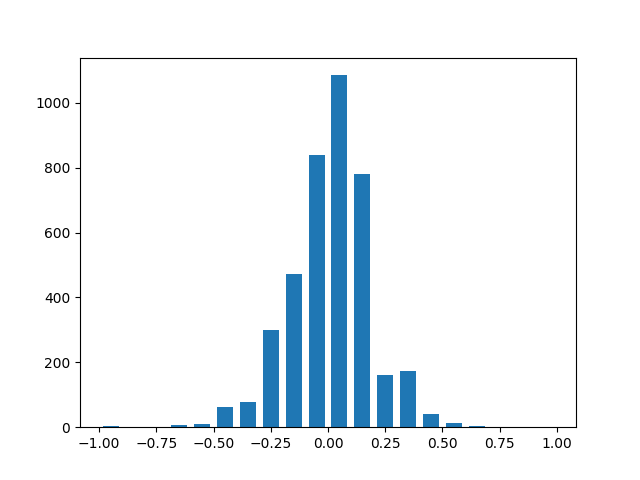
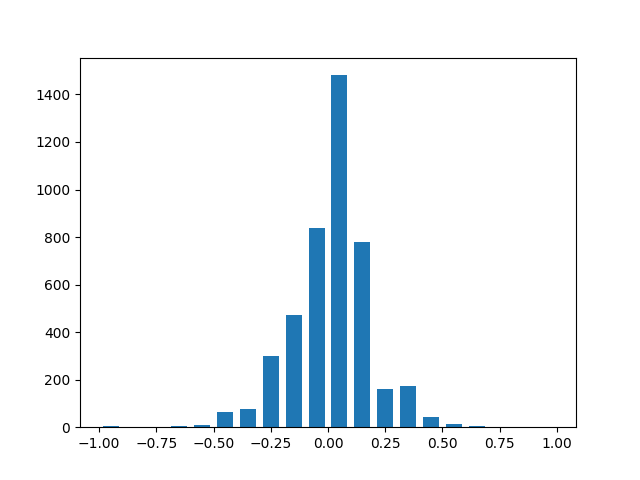
feat(writeup): add more details

diff --git a/model.py b/model.py
@@ -12,13 +12,18 @@ from keras.optimizers import Adam
 
 matplotlib.use('Agg')
 import matplotlib.pyplot as plt
-# Constants
 
+##### Constants ######
 SIDE_CAMERA_CORRECTION = 0.2
+
+# Bins for plotting histogram of steering angles
 BINS = [-1, -0.9, -0.8, -0.7, -0.6, -0.5, -0.4, -0.3, -0.2, -0.1, 
             0, 0.1, 0.2, 0.3, 0.4, 0.5, 0.6, 0.7, 0.8, 0.9, 1]
 
-# Functions
+# Probability of keeping  data between 0 and 0.1
+KEEP_PROB = .3
+
+##### Functions #######
 
 def readDrivingLog(file):
     lines = []
@@ -37,6 +42,8 @@ def get_img(path):
     image = cv2.cvtColor(image, cv2.COLOR_BGR2RGB)
     return image
 
+# Save a histogram plot of the distribution of samples
+# ----------------------------------------------------
 def plotHistogram(lines, file):
     steeringAngles = []
 
@@ -53,9 +60,11 @@ def plotHistogram(lines, file):
     plt.savefig(file)
     plt.gcf().clear()
 
+# Balance data by removing a percentage of steering samples that are between
+# 0/0 and 0.1
+# --------------------------------------------------------------------------
 def balanceData(lines):
     newLines = []
-    KEEP_PROB = 1.
 
     for index, line in enumerate(lines):
         if ((float(line[3]) >= 0 and float(line[3]) < 0.1) and (random.random() > KEEP_PROB)):
@@ -65,12 +74,18 @@ def balanceData(lines):
 
     return newLines
 
+# Flip image
+# ----------
 def getFlippedImage(image):
     return cv2.flip(image, 1)
 
+# Flip measurement
+# ----------------
 def getFlippedMeasurement(measurement):
     return measurement*-1
 
+# Load the images and measurements
+# --------------------------------
 def loadImagesAndMeasurements(lines):
     images, measurements = [], []
     
@@ -98,22 +113,16 @@ def loadImagesAndMeasurements(lines):
 
     return images, measurements
 
-# def preprocess(images, measurements):
-#     augmented_images, augmented_measurements = [], []
-
-#     for image, measurement in zip(images, measurements):
-#         augmented_images.append(image)
-#         augmented_measurements.append(measurement)
-#         augmented_images.append(cv2.flip(image, 1))
-#         augmented_measurements.append(measurement*-1)
-
-#     return augmented_images, augmented_measurements
-
+# Preprocessing layers for the images. Consists of normalization and 
+# mean-centering, followed by a cropping layer.
+# ------------------------------------------------------------------
 def preprocess(model):
     model.add(Lambda(lambda x: (x / 255.0) - 0.5, input_shape=(160,320,3)))
     model.add(Cropping2D(cropping=((50, 20), (0, 0))))
     return model
 
+# Keras implementation of the Nvidia model
+# ----------------------------------------
 def nvidia():
     model = Sequential()
     model = preprocess(model)
@@ -127,38 +136,37 @@ def nvidia():
     model.add(Dense(50))
     model.add(Dense(10))
     model.add(Dense(1))
-    # model.compile(loss='mse', optimizer=Adam(lr=1e-4))
     model.compile(loss='mse', optimizer='adam')
 
     return model
 
-# Script ----------------------------------------------------------------------
+# Save the training and validation loss for each epoch
+# ----------------------------------------------------
+def saveLossGraph(historyObject, file):
+    plt.plot(historyObject.history['loss'])
+    plt.plot(historyObject.history['val_loss'])
+    plt.title('model mean squared error loss')
+    plt.ylabel('mean squared error loss')
+    plt.xlabel('epoch')
+    plt.legend(['training set', 'validation set'], loc='upper right')
+    plt.savefig(file)
+    plt.gcf().clear()
+
+##### Main Script #####
+# ---------------------
 
 lines = readDrivingLog('./data/driving_log.csv')
 plotHistogram(lines, 'data-distribution.png')
 # lines = balanceData(lines)
 # plotHistogram(lines, 'updated-steering-angles-histogram.png')
 images, measurements = loadImagesAndMeasurements(lines)
-# augmented_images, augmented_measurements = preprocess(images, measurements)
-
 
 X_train = np.array(images)
 y_train = np.array(measurements)
 
 model = nvidia()
-history_object = model.fit(X_train, y_train, validation_split=0.2, shuffle=True, nb_epoch=2, verbose=1)
+history = model.fit(X_train, y_train, validation_split=0.2, shuffle=True, nb_epoch=2, verbose=1)
 
-### print the keys contained in the history object
-print(history_object.history.keys())
+saveLossGraph(history, 'loss-graph.png')
 
-### plot the training and validation loss for each epoch
-plt.plot(history_object.history['loss'])
-plt.plot(history_object.history['val_loss'])
-plt.title('model mean squared error loss')
-plt.ylabel('mean squared error loss')
-plt.xlabel('epoch')
-plt.legend(['training set', 'validation set'], loc='upper right')
-plt.savefig('loss-graph.png')
-plt.gcf().clear()
-
-model.save('model.h5')
+# model.save('model.h5')

diff --git a/writeup.md b/writeup.md
@@ -14,6 +14,7 @@ The goals / steps of this project are the following:
 [//]: # (Image References)
 
 [data-distribution]: ./examples/data-distribution.png "Data distribution"
+[balanced-data]: ./examples/updated-steering-angles-histogram.png "Balanced data distribution"
 [loss-graph]: ./examples/loss-graph.png "Loss graph"
 [center]: ./examples/center-sample.jpg "Center"
 [left]: ./examples/left-sample.jpg "Left"
@@ -51,7 +52,7 @@ The model.py file contains the code for training and saving the convolution neur
 
 ### Model Architecture and Training Strategy
 
-#### 1. An appropriate model architecture has been employed
+#### 1. Model Architecture
 
 I used the Nvidia architecture, which consists of the following layers:
 
@@ -82,20 +83,7 @@ I preprocessed the images by normalizing and mean-centering using a Keras lambda
 |:--------:|:------------:|:------------:|
 | ![left cropped][left-cropped] | ![center cropped][center-cropped] | ![right cropped][right-cropped] |
 
-#### 2. Attempts to reduce overfitting in the model
-
-The
-
-
-The model contains dropout layers in order to reduce overfitting (model.py lines 21). 
-
-The model was trained and validated on different data sets to ensure that the model was not overfitting (code line 10-16). The model was tested by running it through the simulator and ensuring that the vehicle could stay on the track.
-
-####3. Model parameter tuning
-
-The model used an adam optimizer, so the learning rate was not tuned manually (model.py line 25).
-
-#### 4. Appropriate training data
+#### 2. Training Data
 
 I trained my model on the Udacity provided data, which contains 8036 samples, with each sample containing three images, one from the center, left and right cameras on the vehicle.
 
@@ -103,53 +91,33 @@ Graphing the distribution of the data by steering angle, we can see that there a
 
 ![Data distribution][data-distribution]
 
-I wrote a function to delete a percentage of these low-numbered measurements, but the ultimate model did not utilize this function.
-
 To augment the Udacity training set, I used the left and right images as well, using a correction factor of 0.2. I also flipped each of the images and measurements (including the left and right images) to balance the data.
 
 ### Model Architecture and Training Strategy
 
-#### 1. Solution Design Approach
+I initially gathered my own data and used it on a variety of iterations of both the LeNet model and the Nvidia model. The LeNet model performed very poorly and so I continued with the Nvidia model and tweaking parameters, including attempting to balance the data, adding dropout layers, and adjusting the number of epochs.
 
-I followed the suggestions on the Udacity classes
+I had originally recorded many frames of data using the keyboard and mouse, in either direction around the track, including recovery driving. However, my model performed poorly training on this data, though at that point my network was incomplete. I switched to the Udacity data since it was proven and used it for the rest of the project.
 
+I wrote a function to delete a percentage of these low-numbered measurements. Depending on the keep probability constant, a balanced dataset might look like this:
 
+![Balanced data][balanced-data-distribution]
 
+The final model did not utilize this function, as it was unnecessary.
 
-
-
-
-
-
-
-
-In order to gauge how well the model was working, I split my image and steering angle data into a training and validation set. I found that my first model had a low mean squared error on the training set but a high mean squared error on the validation set. This implied that the model was overfitting. 
-
-To combat the overfitting, I modified the model so that ...
-
-Then I ... 
-
-The final step was to run the simulator to see how well the car was driving around track one. There were a few spots where the vehicle fell off the track... to improve the driving behavior in these cases, I ....
-
-At the end of the process, the vehicle is able to drive autonomously around the track without leaving the road.
-
-####2. Final Model Architecture
-
-The final model architecture (model.py lines 18-24) consisted of a convolution neural network with the following layers and layer sizes ...
-
-Here is a visualization of the architecture (note: visualizing the architecture is optional according to the project rubric)
-
-![alt text][image1]
-
-
-
-
------------------------------------------------------------------------
-
-#### 3. Creation of the Training Set & Training Process
-
-I utilized the Udacity training set to create the final model. I had originally recorded many frames of data using the keyboard and mouse, in either direction around the track, including recovery driving. However, my model performed poorly training on this data, though at that point my network was incomplete. I switched to the Udacity data since it was proven and used it for the rest of the project.
+Ultimately, I found a successful model by utilizing the Udacity-provided data, and reverting to the straightforward approach recommended by the Nvidia model. The data augmentation steps that I took on the Udacity data resulted in a training dataset of 38,572 samples. The model did not need very many epochs to train, as the training loss was very low even after one epoch. The validation loss would not predictably decrease with more epochs.
 
 For each training session, 20% of the dataset was withheld for validation.
 
 I used mean-squared error to measure the error, and I used the Adam optimizer for optimization with the default learning rate of 1.0e-3.
+
+The loss graph for the model is below:
+
+![Loss graph][loss-graph]
+
+### Improvements
+
+To improve the model, there are certain approaches that I can take in the future:
+- Use a better method to balance the data, rather than the naive approach in the unused function I wrote.
+- Use techniques to generate random variations on the training data, such as rotating the images, adding shadows, etc.
+- Gather and train the model on the second track to see how the model works in a more complex environment.
